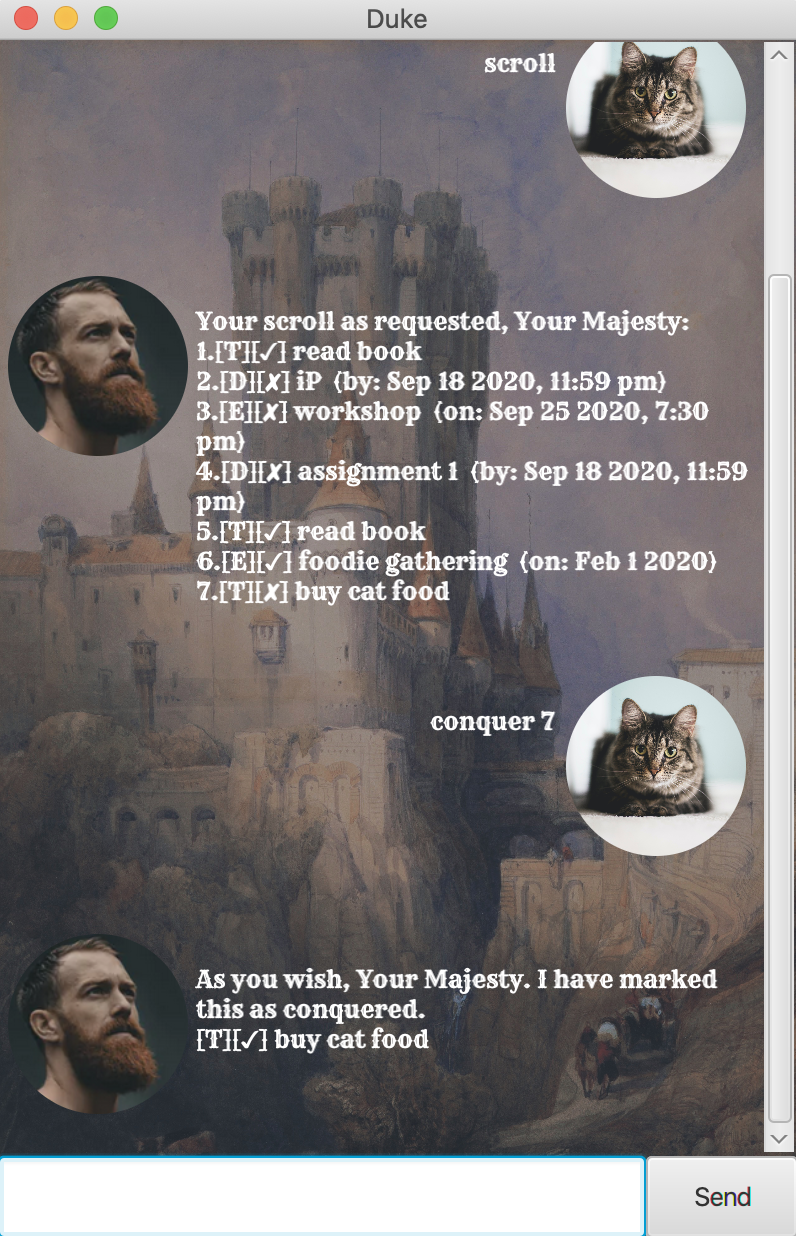
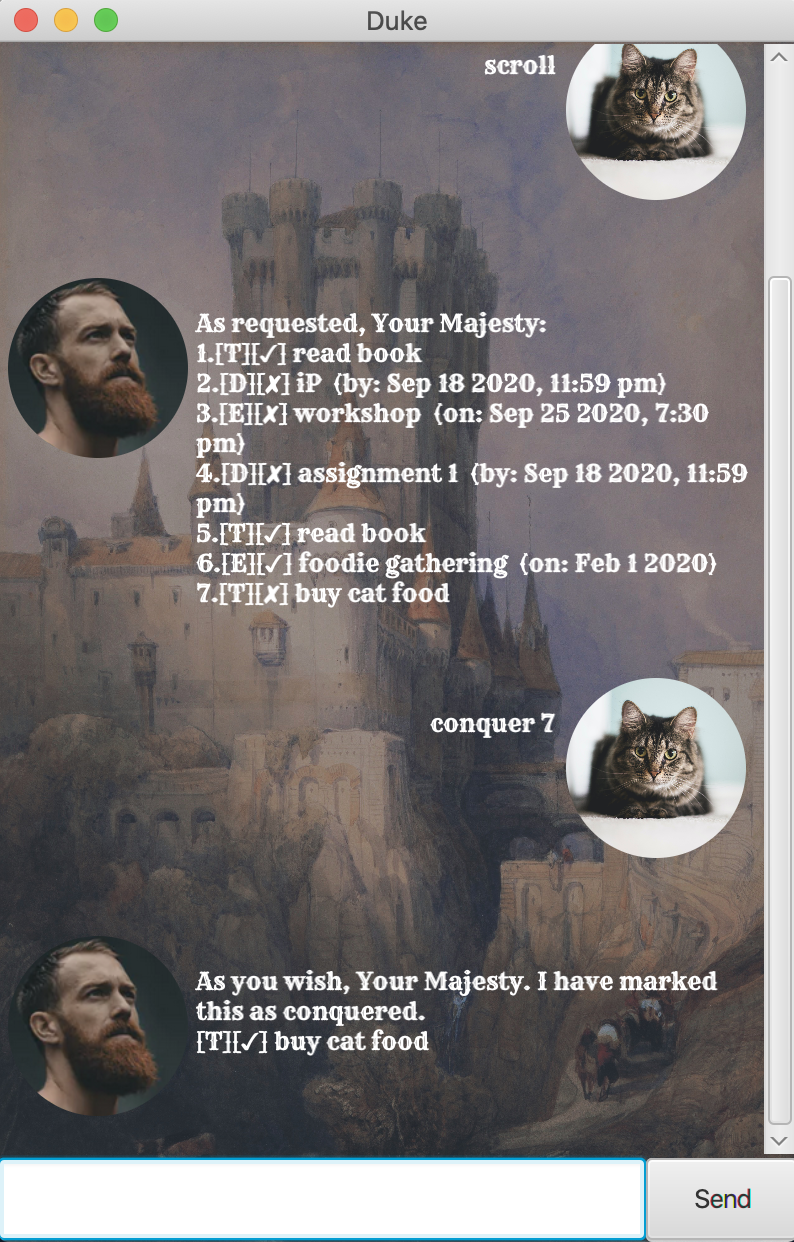
Clean up code

diff --git a/src/main/java/duke/Ui.java b/src/main/java/duke/Ui.java
@@ -12,43 +12,56 @@ public class Ui {
 
     /**
      * Displays welcome message.
+     * 
+     * @return Welcome message string.
      */
     public static String welcome() {
-        String footer= "Your Majesty, I am your loyal Duke.\n " +
-                "I offer a range of administrative services. Do type 'assist' to see the comprehensive list.\n";
-//        return footer + printDashedLineBreak();
-        return footer;
-    }
-
-    /**
-     * Displays a dashed line break that is 32 dashes long.
-     */
-    public static String printDashedLineBreak() {
-        String dashedLine = "- ";
-        return dashedLine.repeat(33);
+        StringBuilder response = new StringBuilder();
+        String greeting = "Your Majesty, I am your loyal Duke.\n ";
+        response.append(greeting);
+        String instruction = "I offer a range of administrative services. Type 'assist' to see the comprehensive list.\n";
+        response.append(instruction);
+        return response.toString();
     }
 
     /**
      * Displays list of possible user commands.
+     * 
+     * @return List of commands.
      */
     public static String assist() {
-        String greeting = "Greetings, Your Majesty.\n " +
-                "Use any of these commands to access my quality services:\n";
-        String commandList = "1. todo [TASK]: Adds a todo to your scroll\n" +
-                    "2. deadline [TASK] /by [DATE AND/OR TIME]: Adds a deadline to your scroll\n" + 
-                        "3. event [TASK] /on [DATE AND/OR TIME]: Adds an event to your scroll\n" +
-                            "4. scroll: Displays your scroll - your list of tasks\n" +
-                                "5. conquer [NUMBER]: Marks the particular item on your scroll as DONE\n" +
-                                    "6. delete [NUMBER]: Deletes the particular item from your scroll\n" +
-                                        "7. find [KEYWORD]: Returns a list of relevant items on your scroll\n" +
-                                            "8. schedule [DATE]: Returns a list of items on this date\n" +
-                                                "9. dismiss: This will be my cue to leave.\n";
+        StringBuilder response = new StringBuilder();
+        String greeting = "Greetings, Your Majesty.\n";
+        response.append(greeting);
+        String todoHelp = "1. todo [TASK]: Adds a todo to your scroll\n";
+        String deadlineHelp = "2. deadline [TASK] /by [DATE AND/OR TIME]: Adds a deadline to your scroll\n";
+        String eventHelp = "3. event [TASK] /on [DATE AND/OR TIME]: Adds an event to your scroll\n";
+        String scrollHelp = "4. scroll: Displays your scroll - your list of tasks\n";
+        String conquerHelp = "5. conquer [NUMBER]: Marks the particular item on your scroll as DONE\n";
+        String deleteHelp = "6. delete [NUMBER]: Deletes the particular item from your scroll\n";
+        String findHelp = "7. find [KEYWORD]: Returns a list of relevant items on your scroll\n";
+        String scheduleHelp = "8. schedule [DATE]: Returns a list of items on this date\n";
+        String dismissHelp = "9. dismiss: This will be my cue to leave.\n";
         String ending = "Now, how may I serve you?\n";
-        return greeting + commandList + ending;
+        
+        response.append(todoHelp);
+        response.append(deadlineHelp);
+        response.append(eventHelp);
+        response.append(scrollHelp);
+        response.append(conquerHelp);
+        response.append(deleteHelp);
+        response.append(findHelp);
+        response.append(scheduleHelp);
+        response.append(dismissHelp);
+        
+        response.append(ending);
+        return response.toString();
     }
 
     /**
      * Displays goodbye message.
+     * 
+     * @return Goodbye message.
      */
     public static String dismiss() {
         return "Your wish is my command, Your Majesty. Till I see you again. \n";
@@ -56,7 +69,9 @@ public class Ui {
 
     /**
      * Displays error message.
+     * 
      * @param e DukeException.
+     * @return Error message.         
      */
     public static String dukeErrorMessage(DukeException e) {
         return e.getMessage() + "\n";
@@ -64,7 +79,9 @@ public class Ui {
 
     /**
      * Displays marked task as done message.
+     * 
      * @param t Task that has been marked as done.
+     * @return Marked as done message.
      */
     public static String conqueredMessage(Task t) {
         assert (t != null);
@@ -75,8 +92,10 @@ public class Ui {
 
     /**
      * Displays deleted task message.
+     * 
      * @param t Task that has been deleted.
      * @param size Size of current list of stored tasks.
+     * @return Deleted task message.
      */
     public static String deletedMessage(Task t, int size) {
         assert (t != null);
@@ -88,8 +107,10 @@ public class Ui {
 
     /**
      * Displays added task message.
+     * 
      * @param t Task that has been added.
      * @param size Size of current list of stored tasks.
+     * @return Added task message.
      */
     public static String addedMessage(Task t, int size) {
         assert (t != null);
@@ -98,47 +119,33 @@ public class Ui {
         String information = String.format("You have %s writing(s) on your scroll as of now. \n", size);
         return response + addedTask + information;
     }
-    
-    public static String printAllTasksUi(ArrayList<Task> storedTasks) {
+
+    /**
+     * Prints a list of tasks.
+     * 
+     * @param storedTasks List of tasks to be printed.
+     * @return Printed list of tasks.
+     */
+    public static String printListOfTasksUi(ArrayList<Task> storedTasks) {
         assert (storedTasks != null);
         if (storedTasks.size() == 0) {
-            return "Your scroll is currently empty, Your Majesty.";
+            return "I have come up on empty, Your Majesty.";
         } 
         StringBuilder response = new StringBuilder();
-        response.append("Your scroll as requested, Your Majesty:\n");
+        response.append("As requested, Your Majesty:\n");
         for (Task task : storedTasks) {
             response.append(String.format("%s.%s\n", storedTasks.indexOf(task) + 1, task));
         }
         return response.toString();
     }
-    
-    public static String printRelevantTasksUi(ArrayList<Task> relevantTasks) {
-        assert (relevantTasks != null);
-        if (relevantTasks.size() == 0) {
-            return "There doesn't seem to be any relevant writings, Your Majesty.";
-        }
-        StringBuilder response = new StringBuilder();
-        response.append("These are the relevant writings, Your Majesty:\n");
-        for (Task task : relevantTasks) {
-            response.append(String.format("%s.%s\n", relevantTasks.indexOf(task) + 1, task));
-        }
-        return response.toString();
-    }
-    
-    public static String printWrongInputErrorMessage() {
+
+    /**
+     * Prints a list of tasks.
+     *
+     * @return Invalid command message.
+     */
+    public static String printInvalidCommmandErrorMessage() {
         return "I'm afraid I don't understand that command, Your Majesty.";
     }
-    
-    public static String printScheduleForDate(ArrayList<Task> scheduledTasks) {
-        assert (scheduledTasks != null);
-        if (scheduledTasks.size() == 0) {
-            return "You have no writings for this date, Your Majesty.";
-        }
-        StringBuilder response = new StringBuilder();
-        response.append("Here are the writings you requested, Your Majesty:\n");
-        for (Task task : scheduledTasks) {
-            response.append(String.format("%s.%s\n", scheduledTasks.indexOf(task) + 1, task));
-        }
-        return response.toString();
-    }
+
 }

diff --git a/src/main/java/duke/TaskList.java b/src/main/java/duke/TaskList.java
@@ -101,7 +101,7 @@ public class TaskList {
      * Prints all stored tasks.
      */
     public String printAllTasks() {
-        return Ui.printAllTasksUi(storedTasks);
+        return Ui.printListOfTasksUi(storedTasks);
     }
 
     /**
@@ -194,7 +194,7 @@ public class TaskList {
             return Ui.dukeErrorMessage(new DukeException("Please enter a search term, Your Majesty."));
         }
         
-        return Ui.printRelevantTasksUi(relevantTasks);
+        return Ui.printListOfTasksUi(relevantTasks);
     }
 
     /**
@@ -276,8 +276,8 @@ public class TaskList {
                 }
             }
         } catch (Exception err) {
-            return Ui.dukeErrorMessage(new DukeException("Please input a valid date, Your Majesty."));
+            return Ui.dukeErrorMessage(new DukeException("Please input a valid date in YYYY-MM-DD format, Your Majesty."));
         }
-        return Ui.printScheduleForDate(relevantTasks);
+        return Ui.printListOfTasksUi(relevantTasks);
     }
 }

diff --git a/src/main/java/duke/Duke.java b/src/main/java/duke/Duke.java
@@ -60,7 +60,7 @@ public class Duke {
         case "schedule":
             return tasks.getTasksForADate(parser.getSplitUserInput());
         default:
-            return Ui.printWrongInputErrorMessage();
+            return Ui.printInvalidCommmandErrorMessage();
         }
     }
 

diff --git a/docs/README.md b/docs/README.md
@@ -15,6 +15,8 @@ Duke provides a fast and convenient way to keep track of all your tasks, events 
 
 ### [Adding an Event](#event): `event` 
 
+### [Viewing all tasks](#scroll): `scroll` 
+
 ### [Marking tasks as done](#done): `conquer` 
 
 ### [Deleting a task](#delete): `delete` 
@@ -89,6 +91,18 @@ Expected outcome:
 >[E] [✘] workshop (on: Sep 23 2020, 7.30pm)  
 >You have 3 writing(s) on your scroll as of now.   
 
+### <a name="scroll">Viewing all tasks</a>: `scroll`
+Displays your current list of tasks.   
+Format:`scroll`  
+
+Example usage: `scroll`  
+
+Expected outcome:  
+>As requested, Your Majesty:  
+>1. [T] [✘] read book   
+>2. [D] [✘] project (by: Sep 18 2020, 11.59pm)    
+>3. [E] [✘] workshop (on: Sep 23 2020, 7.30pm)
+
 ### <a name="done">Marking tasks as done</a>: `conquer`
 Marks a desired task as done.  
 
@@ -123,7 +137,7 @@ Format: `find SEARCH_TERM`
 Example usage: `find food`
 
 Expected outcome: 
->These are the relevant writings, Your Majesty:  
+>As requested, Your Majesty:  
 >1. [T] [✘] buy cat food  
 >2. [E] [✘] foodie gathering (on: Sep 30 2020, 6.00pm)  
 
@@ -135,7 +149,7 @@ Format: `schedule DATE`
 Example usage: `schedule 2020-09-18`
 
 Expected outcome: 
->Here are the writings you requested, Your Majesty:  
+>As requested, Your Majesty:  
 >1. [D] [✘] iP (by: Sept 18 2020, 11:59pm)  
 >2. [D] [✘] assignment 1 (by: Sep 18 2020, 11:59pm)  
 
